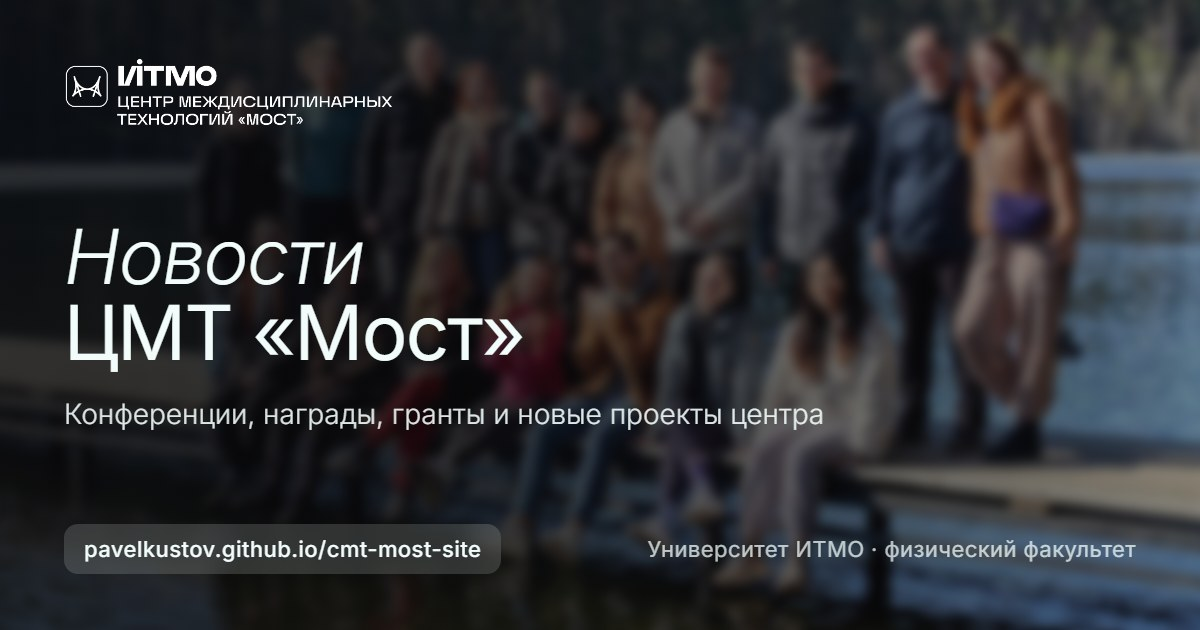
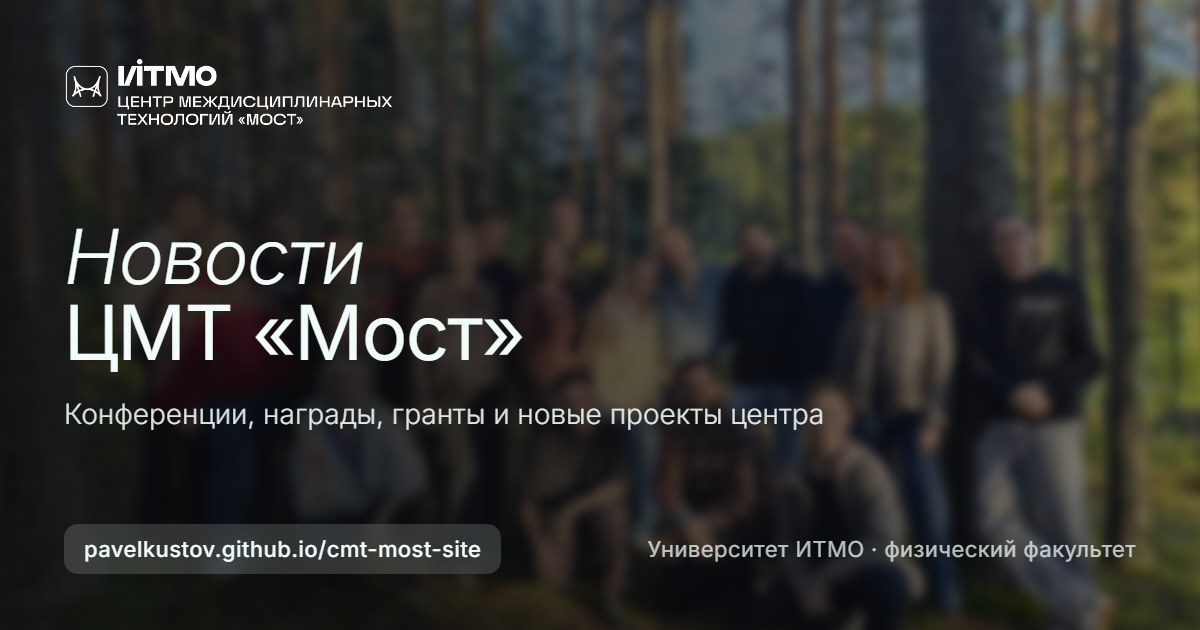
Новости: фото команды в лесу; чистка репозитория
- фон первого экрана «Новостей»: новое фото команды, затемнение сильнее слева снизу под заголовком,
  на десктопе верх самой высокой головы на 4rem ниже шапки; превью ссылки пересобрано
- удалены неиспользуемые SVG-иконки (иконки вшиты в layout.js), старое фото новости месяца,
  одноразовые скрипты tools/heroes.py и tools/strips.py
- рендеры макета design/render-*.png больше не в git (остаются локально)
- docs/BACKLOG.md: технический бэклог

diff --git a/assets/css/style.css b/assets/css/style.css
@@ -183,8 +183,14 @@ svg { display: block; flex-shrink: 0; }
 .hero__bg img { width: 100%; height: 100%; object-fit: cover; filter: blur(7.5px); transform: scale(1.02); }
 .hero--direction .hero__bg img { filter: blur(16px); }
 /* фото команды в «Новостях»: в макете без размытия, только затемнение (exposure -0.54) */
-.hero--photo .hero__bg img { filter: brightness(.62); transform: none; }
-.hero--photo .hero__bg::after { background: linear-gradient(60.8deg, rgba(9, 9, 11, .35) 25%, rgba(9, 9, 11, 0) 70%); }
+/* фото команды в лесу: солнечное и пестрое, поэтому общее затемнение плюс сильнее слева снизу, где заголовок */
+.hero--photo .hero__bg img { filter: brightness(.6) saturate(.9); transform: none; }
+/* верх самой высокой головы (35.6% высоты фото 4:3) на 4rem ниже шапки (низ шапки 10.8rem):
+   фото шириной 104vw имеет высоту 78vw, отсюда сдвиг 10.8 + 4 + 2% высоты первого экрана - 0.356 * 78vw */
+@media (min-width: 1101px) {
+  .hero--photo .hero__bg img { object-position: center calc(16.6rem - 27.74vw); }
+}
+.hero--photo .hero__bg::after { background: linear-gradient(62deg, rgba(9, 9, 11, .62) 18%, rgba(9, 9, 11, .25) 48%, rgba(9, 9, 11, 0) 75%); }
 .hero__bg::after {
   content: ""; position: absolute; inset: 0;
   background: linear-gradient(60.8deg, rgba(9, 9, 11, .5) 35.45%, rgba(9, 9, 11, 0) 100%);

diff --git a/direction.html b/direction.html
@@ -20,7 +20,7 @@
   <link rel="preconnect" href="https://fonts.googleapis.com">
   <link rel="preconnect" href="https://fonts.gstatic.com" crossorigin>
   <link href="https://fonts.googleapis.com/css2?family=Inter:ital,wght@0,300;0,400;0,500;0,600;0,700;1,300&family=Roboto:wght@300;400;600&display=swap" rel="stylesheet">
-  <link rel="stylesheet" href="assets/css/style.css?v=65d6cc96">
+  <link rel="stylesheet" href="assets/css/style.css?v=a616f380">
   <script src="assets/js/data.js?v=a1e9e172" defer></script>
   <script src="assets/js/layout.js?v=9c7ff716" defer></script>
   <script src="assets/js/citations.js?v=0ec95640" defer></script>

diff --git a/publications.html b/publications.html
@@ -20,7 +20,7 @@
   <link rel="preconnect" href="https://fonts.googleapis.com">
   <link rel="preconnect" href="https://fonts.gstatic.com" crossorigin>
   <link href="https://fonts.googleapis.com/css2?family=Inter:ital,wght@0,300;0,400;0,500;0,600;0,700;1,300&family=Roboto:wght@300;400;600&display=swap" rel="stylesheet">
-  <link rel="stylesheet" href="assets/css/style.css?v=65d6cc96">
+  <link rel="stylesheet" href="assets/css/style.css?v=a616f380">
   <script src="assets/js/data.js?v=a1e9e172" defer></script>
   <script src="assets/js/layout.js?v=9c7ff716" defer></script>
   <script src="assets/js/citations.js?v=0ec95640" defer></script>

diff --git a/index.html b/index.html
@@ -20,7 +20,7 @@
   <link rel="preconnect" href="https://fonts.googleapis.com">
   <link rel="preconnect" href="https://fonts.gstatic.com" crossorigin>
   <link href="https://fonts.googleapis.com/css2?family=Inter:ital,wght@0,300;0,400;0,500;0,600;0,700;1,300&family=Roboto:wght@300;400;600&display=swap" rel="stylesheet">
-  <link rel="stylesheet" href="assets/css/style.css?v=65d6cc96">
+  <link rel="stylesheet" href="assets/css/style.css?v=a616f380">
   <script src="assets/js/data.js?v=a1e9e172" defer></script>
   <script src="assets/js/layout.js?v=9c7ff716" defer></script>
   <script src="assets/js/main.js?v=db90416b" defer></script>

diff --git a/news.html b/news.html
@@ -20,7 +20,7 @@
   <link rel="preconnect" href="https://fonts.googleapis.com">
   <link rel="preconnect" href="https://fonts.gstatic.com" crossorigin>
   <link href="https://fonts.googleapis.com/css2?family=Inter:ital,wght@0,300;0,400;0,500;0,600;0,700;1,300&family=Roboto:wght@300;400;600&display=swap" rel="stylesheet">
-  <link rel="stylesheet" href="assets/css/style.css?v=65d6cc96">
+  <link rel="stylesheet" href="assets/css/style.css?v=a616f380">
   <script src="assets/js/data.js?v=a1e9e172" defer></script>
   <script src="assets/js/layout.js?v=9c7ff716" defer></script>
   <script src="assets/js/main.js?v=db90416b" defer></script>

diff --git a/docs/BACKLOG.md b/docs/BACKLOG.md
@@ -1,0 +1,58 @@
+# ЦМТ «Мост» · технический бэклог
+
+Все, что не контент: анимации, переходы, функции, качество. Контент (тексты, фото, публикации, новости)
+собирается в Word-анкетах в папке `cmt-most-site ТЗ контент` рядом с репозиторием: главная и общие данные,
+новости и по файлу на каждое из 10 научных направлений (описание, команда, публикации).
+Пересоздать анкеты с текущими данными сайта: `python make_content_forms.py` в той же папке (скрипт вне репозитория).
+
+Как пользоваться: в колонке «Решение» владелец пишет «да», «нет» или «потом». Приоритет можно менять.
+Всё помечено как предложение, пока нет решения. Правило проекта: сначала делаем локально, пушим после просмотра.
+
+Приоритет: **P1** заметно посетителю или мешает запуску, **P2** улучшает впечатление, **P3** по желанию.
+
+## 1. Анимации и переходы
+
+| # | Задача | Что сейчас | Предложение | Приоритет | Решение |
+|---|---|---|---|---|---|
+| A1 | Выпадающее меню «Наука» | открывается и закрывается мгновенно | плавное появление карточек (прозрачность и сдвиг на 8px, 180 мс), закрытие чуть быстрее | P2 | |
+| A2 | Меню-бургер на телефоне | появляется мгновенно | выезд панели сверху, иконка бургера превращается в крестик | P2 | |
+| A3 | Закрытие окон («Написать», «Цитировать», попап новости) | открытие анимировано, закрытие мгновенное | симметричная анимация закрытия | P3 | |
+| A4 | Появление блоков при прокрутке | блоки просто стоят на месте | мягкое проявление секций один раз при первом показе; отключается при настройке «уменьшить движение» | P2 | |
+| A5 | Цифры в блоке «ЦМТ «Мост»» (41, >200, 10) | статичные | счет от нуля до значения при появлении на экране | P3 | |
+| A6 | Линия этапов в «Индустрии» | статичная | линия прорисовывается слева направо, этапы загораются по очереди | P3 | |
+| A7 | Переходы между страницами | обычная перезагрузка | плавная смена страниц (View Transitions API), фон первого экрана перетекает из карточки направления в страницу направления | P2 | |
+| A8 | Подгрузка картинок | картинка появляется рывком | плавное проявление после загрузки, заглушка цвета фона | P3 | |
+| A9 | Карусель «Наука» на компьютере | только стрелки и прокрутка тачпадом | перетаскивание мышью, точки или полоска прогресса под каруселью | P2 | |
+| A10 | Единый стиль наведения | у кнопок разные эффекты | свести в одну систему: длительности, кривые, цвета наведения и нажатия | P2 | |
+
+## 2. Функции
+
+| # | Задача | Что сейчас | Предложение | Приоритет | Решение |
+|---|---|---|---|---|---|
+| F1 | Английская версия | переключатель EN неактивен | структура для двух языков, тексты в data.js по языкам, переводы из анкет | P1, если нужна | |
+| F2 | Перенос анкет на сайт | анкеты только созданы | скрипт `tools/import_content.py`: читает заполненные docx, вынимает фото из ячеек, обновляет data.js и картинки | P1 | |
+| F3 | Незаполненные направления | 8 страниц с текстом «Описание направления готовится» | по решению из анкеты: скрыть до заполнения или показать с пометкой | P1 | |
+| F4 | Страница 404 | GitHub показывает свою | своя страница в стиле сайта со ссылками на разделы | P2 | |
+| F5 | Документы в подвале | «Политика» и «Информация об организации» ведут на # | ссылки или PDF из анкеты 01 | P1 | |
+| F6 | Свой домен | pavelkustov.github.io/cmt-most-site | по решению из анкеты: домен, CNAME, HTTPS, обновить адреса в превью ссылок | P2 | |
+| F7 | Поиск по сайту и индексация | нет sitemap.xml и robots.txt | sitemap, robots, canonical, разметка организации для поисковиков | P2 | |
+| F8 | Превью ссылок для каждого направления | у всех направлений одна картинка | статические страницы направлений при сборке, у каждой своя картинка превью | P3 | |
+| F9 | Статистика посещений | нет | Яндекс Метрика после появления политики обработки данных | P3 | |
+| F10 | Фильтр новостей по тегам | нет | фильтр по тегу на странице «Новости», когда новостей станет больше 10 | P3 | |
+
+## 3. Качество и надежность
+
+| # | Задача | Что сейчас | Предложение | Приоритет | Решение |
+|---|---|---|---|---|---|
+| Q1 | Шрифты | грузятся с Google Fonts | держать файлы шрифтов в репозитории: быстрее из России и не зависит от внешнего сервиса (из-за него же иногда таймауты смоука) | P1 | |
+| Q2 | Смоук-тест | изредка падает по сетевому таймауту | повтор загрузки страницы при сетевой ошибке, отдельный отчет о сетевых сбоях | P2 | |
+| Q3 | Доступность | базовая | проверка контраста, подписи картинок, управление каруселью с клавиатуры, фокус внутри окон | P2 | |
+| Q4 | Скорость | картинки сжаты, остальное не мерили | замер Lighthouse на телефоне, предзагрузка фона первого экрана, размеры картинок под экран | P2 | |
+| Q5 | Приемка на телефоне | проверки автоматические | владелец проходит все страницы на своем телефоне, замечания в этот файл | P1 | |
+| Q6 | Процесс релиза | ручной порядок: bump_assets, smoke, коммит, пуш | один скрипт `tools/release.py`, который не пушит при упавшем смоуке | P2 | |
+
+## Заметки владельца
+
+Сюда можно дописывать новые пожелания в свободной форме, потом они разбираются в таблицы выше.
+
+-

diff --git a/docs/PROJECT.md b/docs/PROJECT.md
@@ -5,7 +5,7 @@
 - Макет: https://www.figma.com/design/cTykc0aa3pAAjbvKz7ngiY/Untitled
 - Секции макета: Компоненты, Главная, Направление (пустое и два заполненных, со списком и с карточками),
   Публикации, Новости, наведение на «Наука», попап новости.
-- Рендеры всех страниц лежат в `design/render-*.png`, исходные PNG из Figma в `design/source-img/` (в git не идут).
+- Рендеры всех страниц лежат в `design/render-*.png`, исходные PNG из Figma в `design/source-img/` (и то и другое только локально, в git не идут).
 - Ссылки на ассеты Figma в `design/assets_manifest.txt` живут около 7 дней (с 16.09.2026).
   Файл только локальный, в git не идет (временные ссылки Figma просит не публиковать).
   Повторная выгрузка: `python design/download_assets.py`, затем `python design/optimize_images.py`.

diff --git a/README.md b/README.md
@@ -66,7 +66,7 @@ assets/og                картинки превью ссылок 1200x630 (to
 assets/icons/favicon.svg иконка сайта: мост из логотипа, перерисован в вектор
 assets/js/main.js        логика страниц
 assets/img, assets/icons картинки и иконки из Figma
-design/                  рендеры макета, манифест ассетов, скрипты выгрузки
+design/                  скрипты выгрузки картинок из Figma (рендеры макета и исходники только локально)
 docs/PROJECT.md          информация по проекту и список открытых вопросов
 tools/                   смоук-тест и вспомогательные скрипты
 ```
